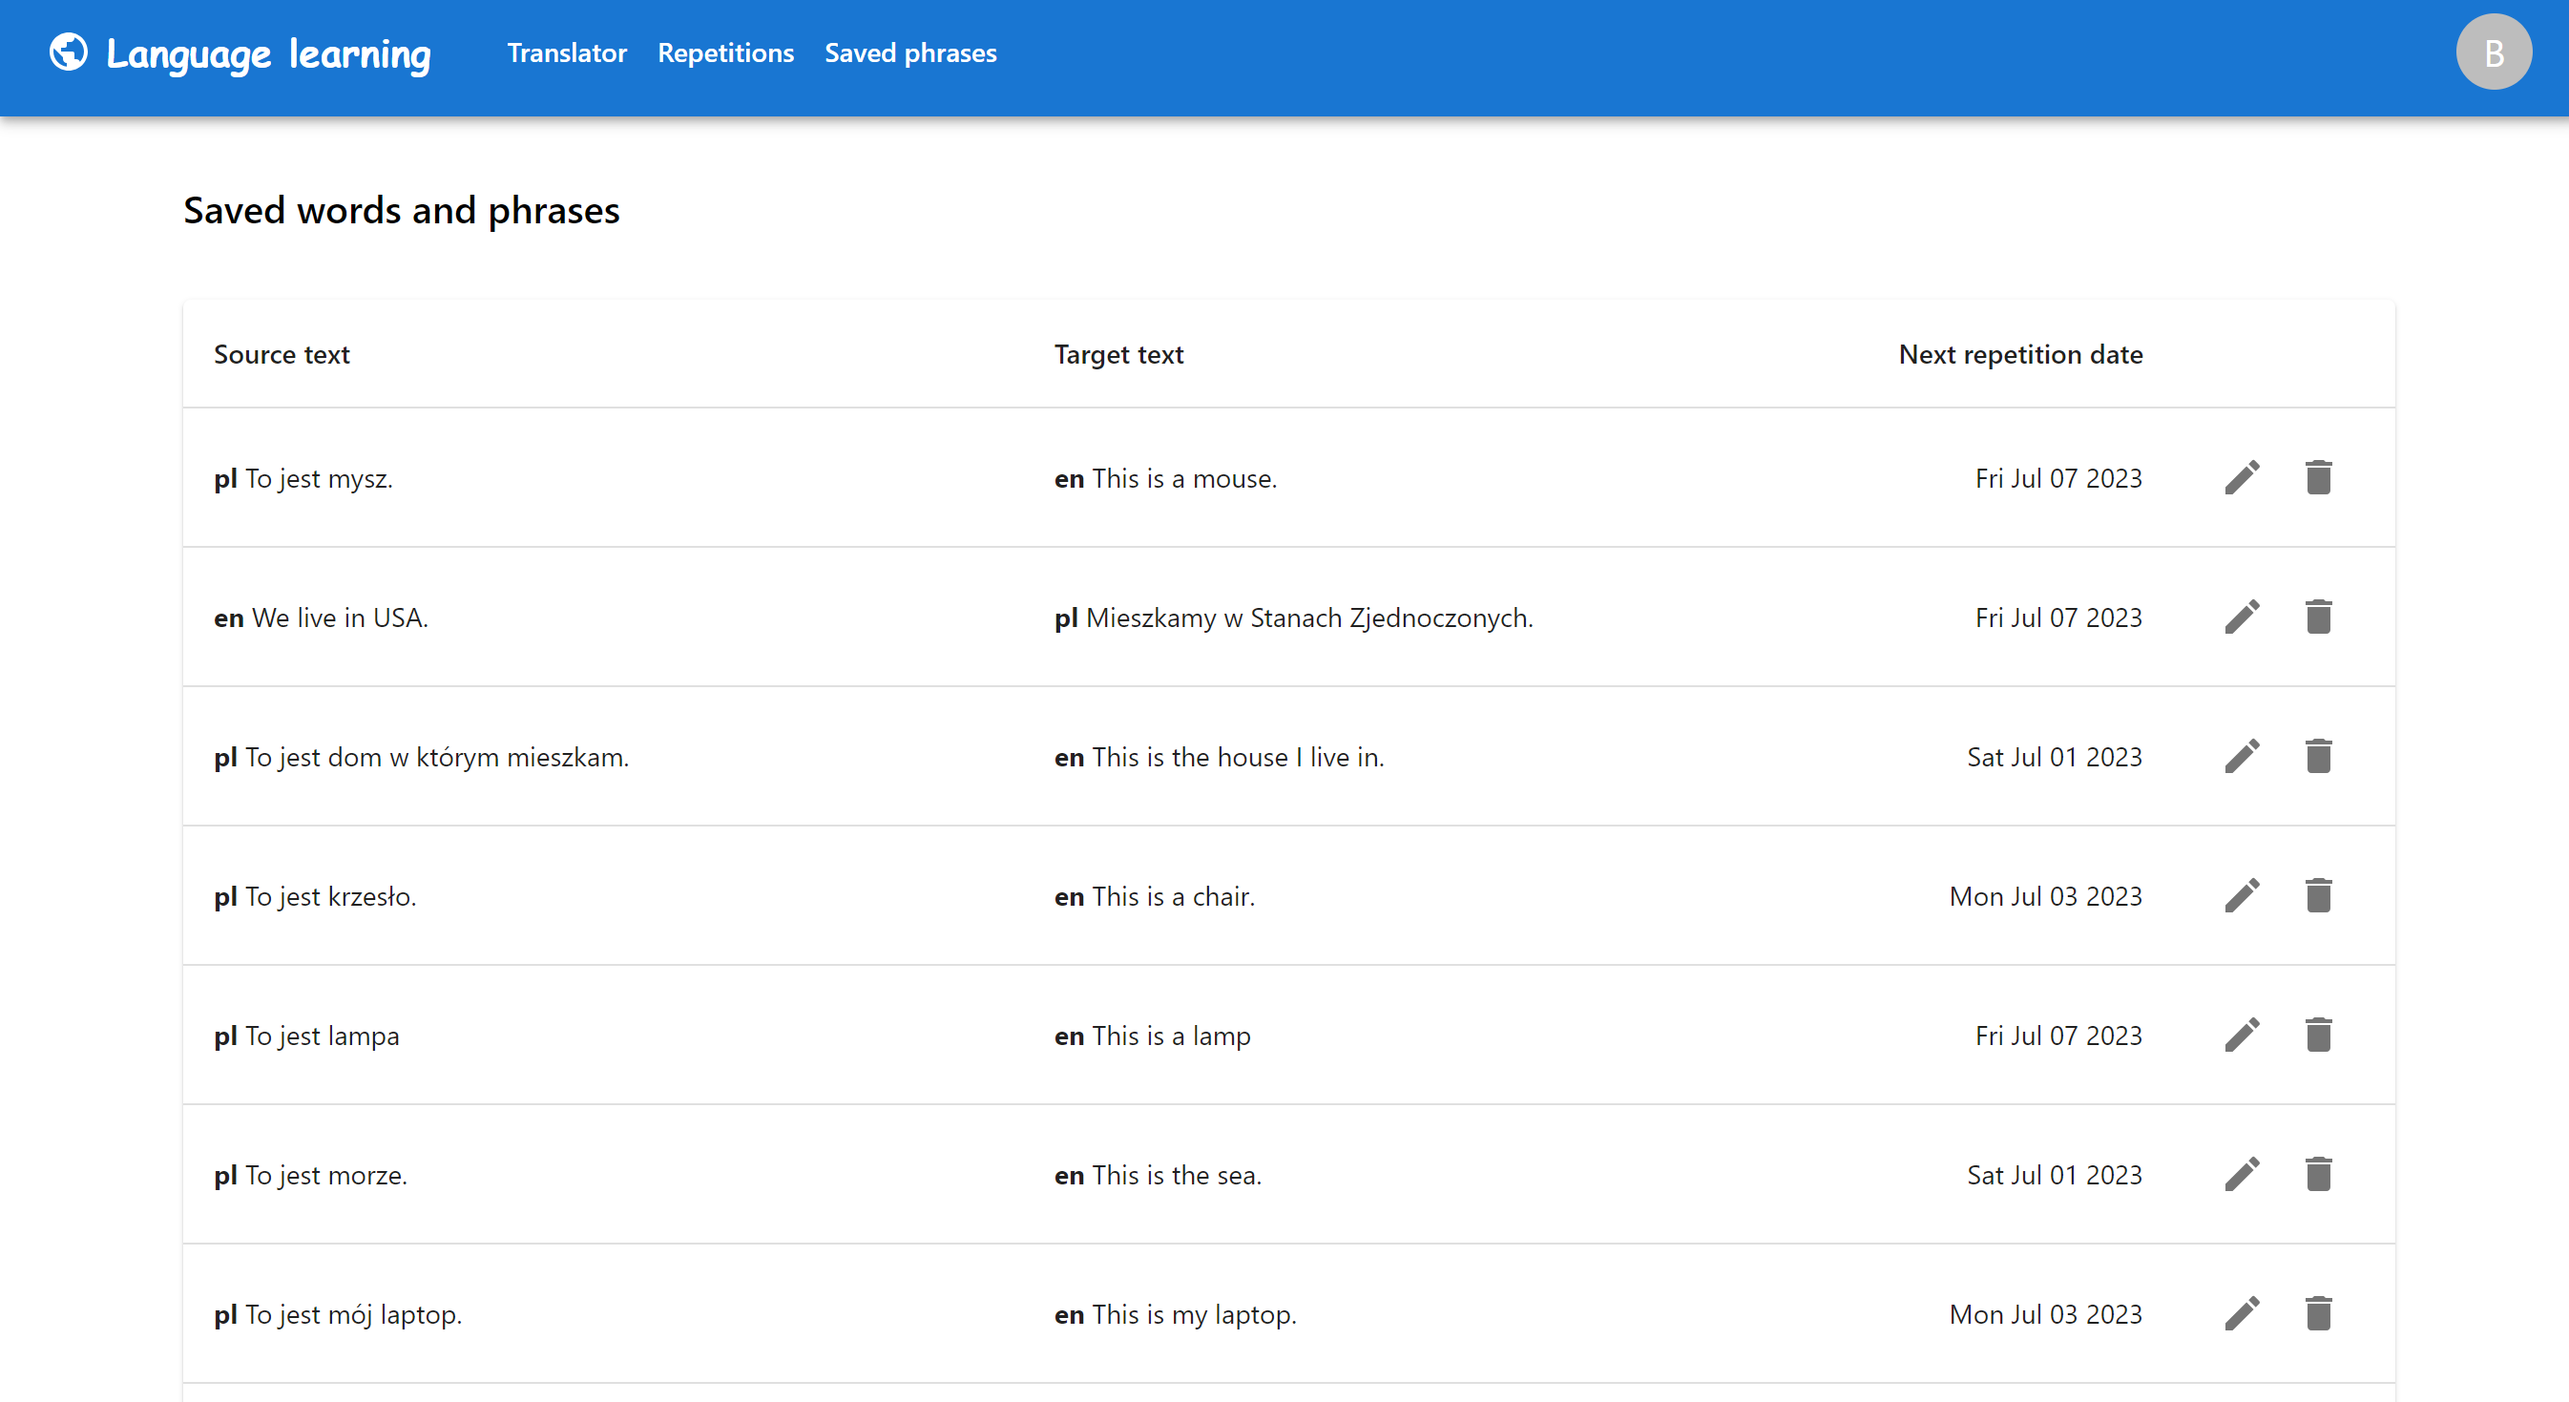
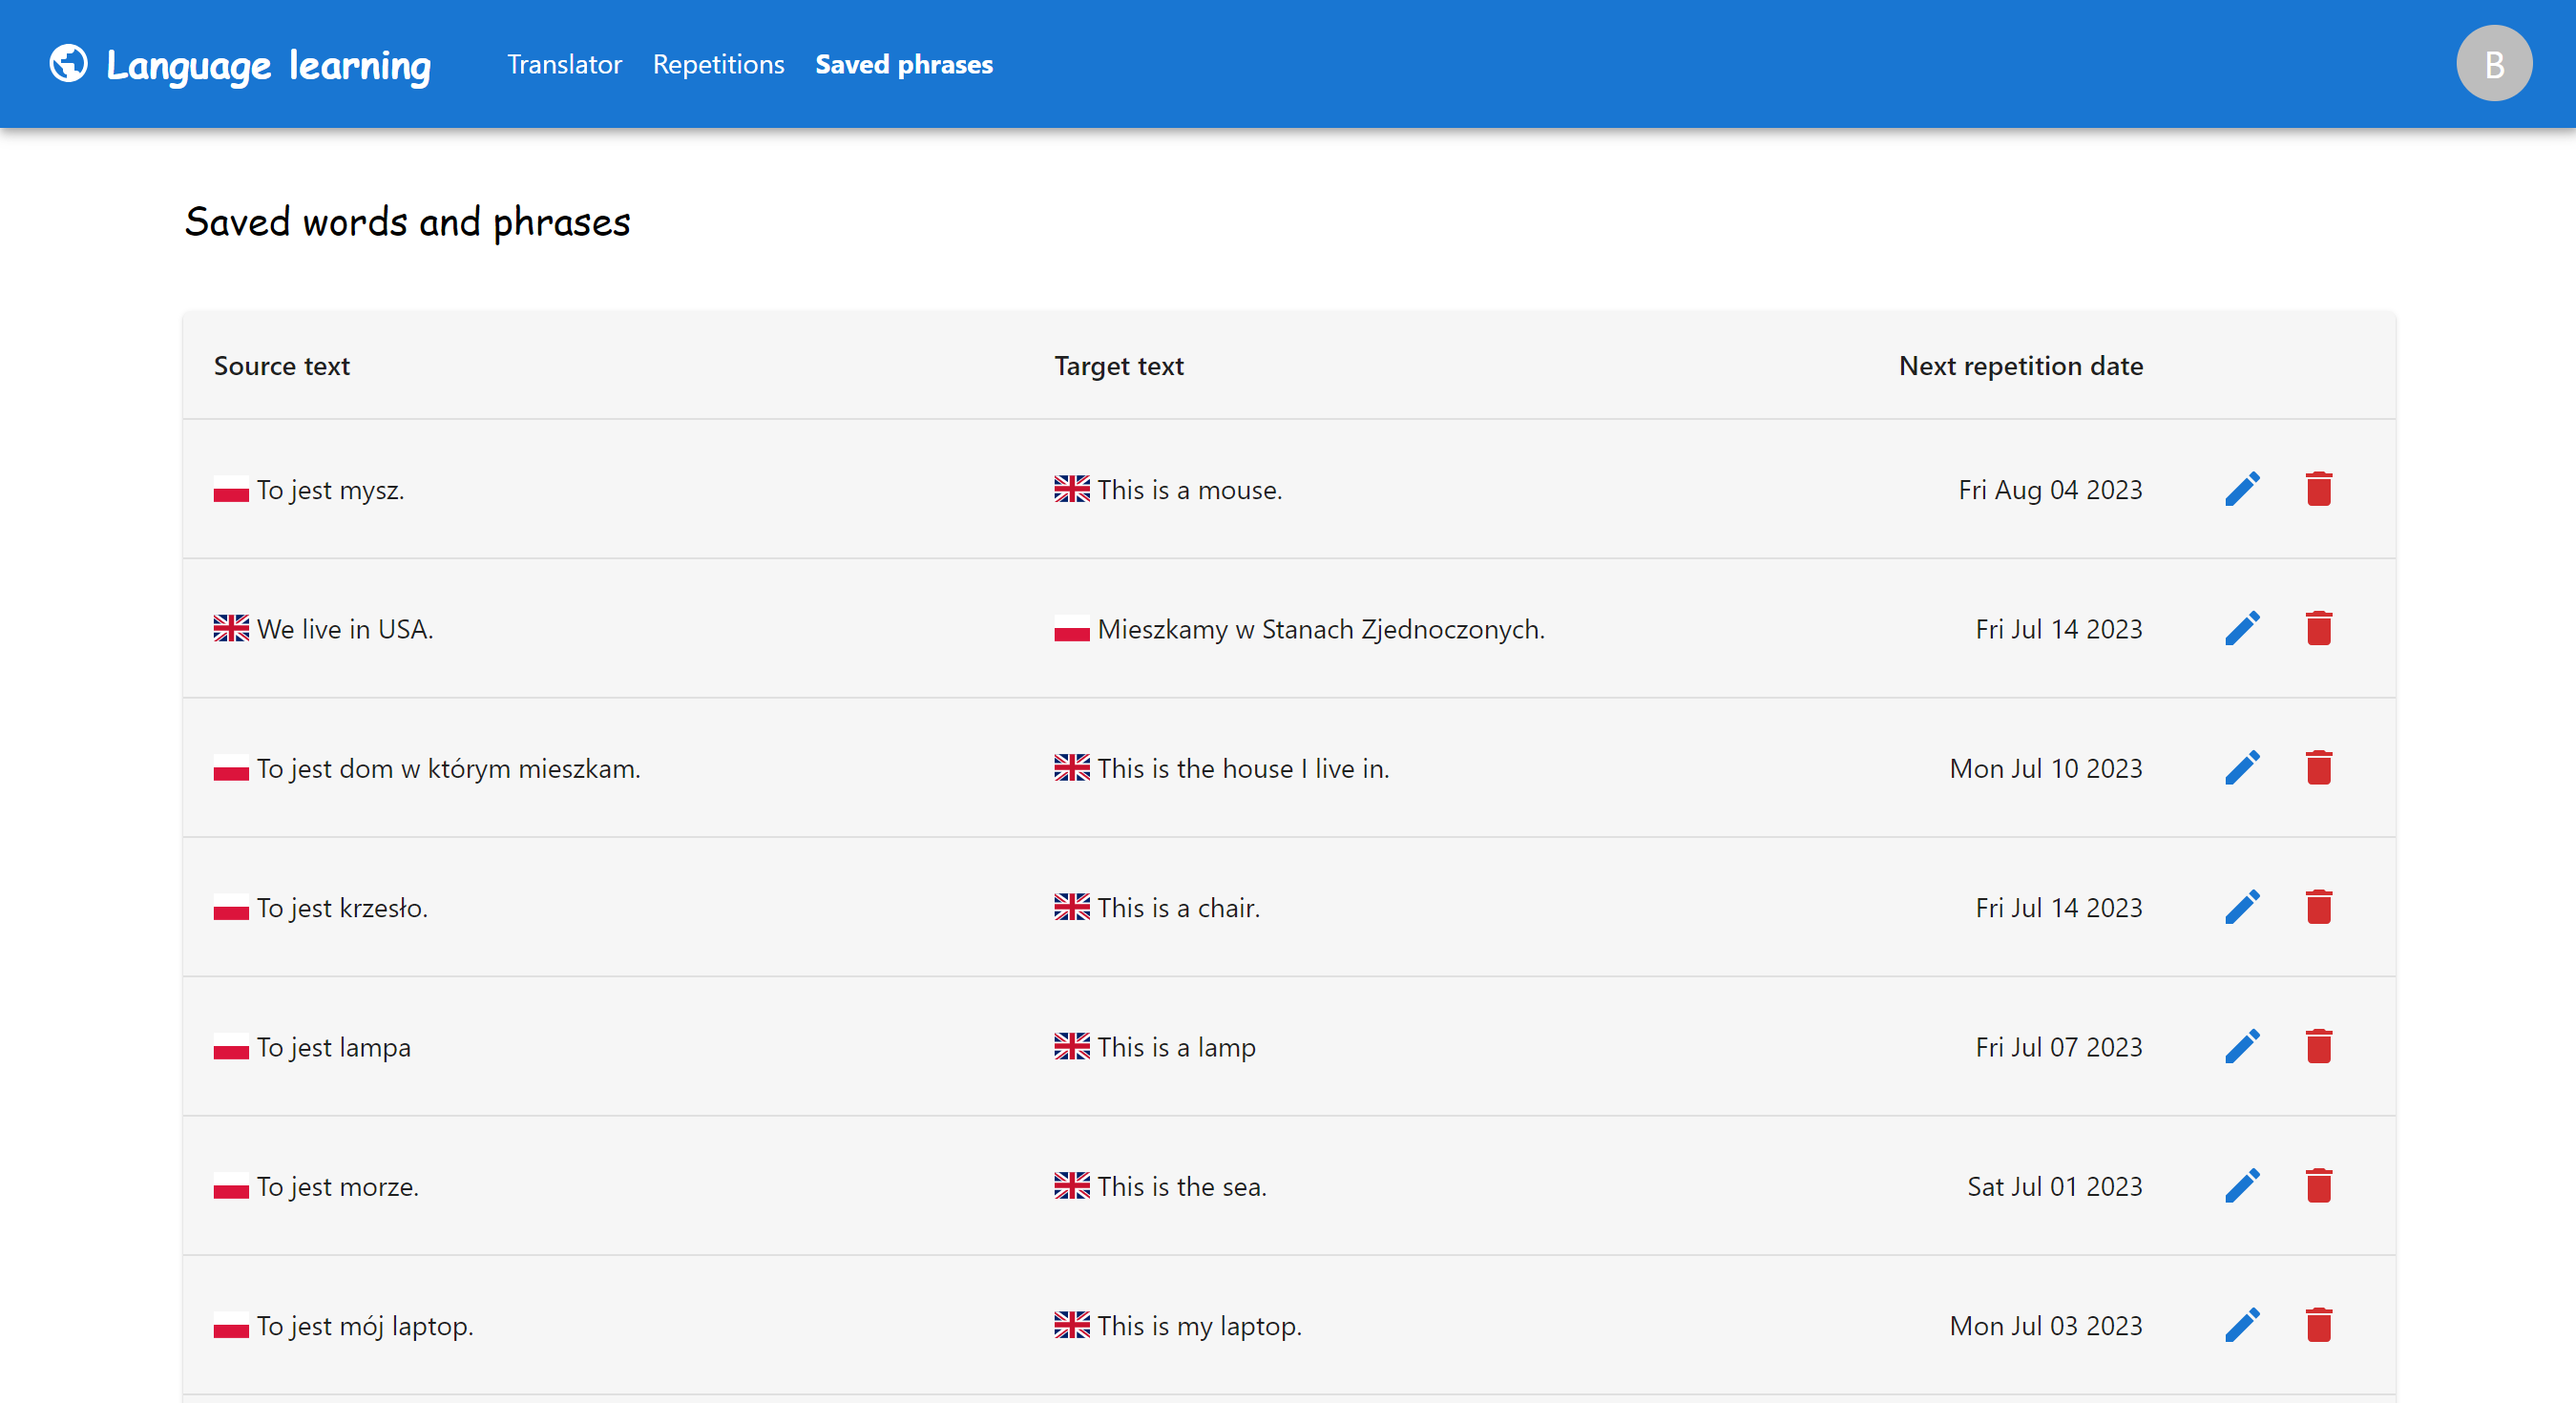
[WEB] Improve look of saved phrases table (#47)

diff --git a/web/src/pages/Phrases/PhrasesTable.tsx b/web/src/pages/Phrases/PhrasesTable.tsx
@@ -17,6 +17,15 @@ export const PhrasesTable = ({ repetitions }: Props): JSX.Element => {
   const [selectedToDeletionRepetitionId, setSelectedToDeletionRepetitionId] = useState<string | null>(null);
   const [selectedToEditionRepetition, setSelectedToEditionRepetition] = useState<Repetition | null>(null);
 
+  const getProperCountryInISO3166 = (country: string): string => {
+    switch (country) {
+      case 'en':
+        return 'gb';
+      default:
+        return country;
+    }
+  };
+
   return (
     <>
       {selectedToEditionRepetition && (
@@ -33,7 +42,7 @@ export const PhrasesTable = ({ repetitions }: Props): JSX.Element => {
           repetitionId={selectedToDeletionRepetitionId!}
         />
       )}
-      <TableContainer component={Paper}>
+      <TableContainer component={Paper} style={{ backgroundColor: '#f6f6f6' }}>
         <Table sx={{ minWidth: 650 }} aria-label="phrases table">
           <TableHead>
             <TableRow>
@@ -52,15 +61,18 @@ export const PhrasesTable = ({ repetitions }: Props): JSX.Element => {
                 sx={{ '&:last-child td, &:last-child th': { border: 0 } }}
               >
                 <TableCell component="th" scope="row">
-                  <b>{repetition.sourceLanguage}</b> {repetition.sourceLanguageText}
+                  <span className={`fi fi-${getProperCountryInISO3166(repetition.sourceLanguage)}`}></span>{' '}
+                  {repetition.sourceLanguageText}
                 </TableCell>
                 <TableCell>
-                  <b>{repetition.targetLanguage}</b> {repetition.targetLanguageText}
+                  <span className={`fi fi-${getProperCountryInISO3166(repetition.targetLanguage)}`}></span>{' '}
+                  {repetition.targetLanguageText}
                 </TableCell>
                 <TableCell align="right">{new Date(repetition.nextRepetitionDate).toDateString()}</TableCell>
                 <TableCell>
                   <IconButton
                     aria-label="edit"
+                    color="primary"
                     onClick={e => {
                       e.preventDefault();
                       setSelectedToEditionRepetition(repetition);
@@ -70,6 +82,7 @@ export const PhrasesTable = ({ repetitions }: Props): JSX.Element => {
                   </IconButton>
                   <IconButton
                     aria-label="delete"
+                    color="error"
                     onClick={e => {
                       e.preventDefault();
                       setSelectedToDeletionRepetitionId(repetition.id);

diff --git a/web/src/pages/Translator/index.tsx b/web/src/pages/Translator/index.tsx
@@ -3,14 +3,14 @@ import { useTranslation } from 'react-i18next';
 import { Helmet } from 'react-helmet-async';
 import { useMutation, useQuery, useQueryClient } from '@tanstack/react-query';
 import Grid from '@mui/material/Unstable_Grid2';
-import { Button, type SelectChangeEvent, TextField, Typography, Stack } from '@mui/material';
+import { Button, type SelectChangeEvent, TextField, Stack } from '@mui/material';
 import SyncAltIcon from '@mui/icons-material/SyncAlt';
 import TranslateIcon from '@mui/icons-material/Translate';
 import AddIcon from '@mui/icons-material/Add';
 import { toast } from 'react-toastify';
 
 import { Select } from '../../components/Select';
-import { ReverseLanguagesButton, TranslateButtonContainer, TranslatorPageWrapper } from './styled';
+import { Heading, ReverseLanguagesButton, TranslateButtonContainer, TranslatorPageWrapper } from './styled';
 import Api from '../../api/api';
 
 export const Translator = (): JSX.Element => {
@@ -89,9 +89,9 @@ export const Translator = (): JSX.Element => {
       </Helmet>
       <TranslatorPageWrapper>
         <Stack direction="row" justifyContent="space-between" alignItems="center" spacing={2}>
-          <Typography variant="h6" gutterBottom>
+          <Heading variant="h6" gutterBottom>
             {t('translator')}
-          </Typography>
+          </Heading>
           <Button
             variant="text"
             startIcon={<AddIcon />}

diff --git a/web/src/pages/Phrases/index.tsx b/web/src/pages/Phrases/index.tsx
@@ -2,12 +2,12 @@ import React from 'react';
 import { useTranslation } from 'react-i18next';
 import { useQuery } from '@tanstack/react-query';
 import { Helmet } from 'react-helmet-async';
-import { CircularProgress, Typography } from '@mui/material';
+import { CircularProgress } from '@mui/material';
 
 import { PageWrapper } from '../../components/PageWrapper/styled';
 import Api from '../../api/api';
 import { PhrasesTable } from './PhrasesTable';
-import { CircularProgressContainer } from './styled';
+import { CircularProgressContainer, Heading } from './styled';
 
 export const Phrases = (): JSX.Element => {
   const { t } = useTranslation('translation', { keyPrefix: 'pages.phrases' });
@@ -25,9 +25,9 @@ export const Phrases = (): JSX.Element => {
 
   const getLoadedPage = (): JSX.Element => (
     <>
-      <Typography variant="h6" style={{ marginBottom: '2rem' }} gutterBottom>
+      <Heading variant="h6" gutterBottom>
         {t('savedPhrases')}
-      </Typography>
+      </Heading>
       <PhrasesTable repetitions={getRepetitionsQuery.data} />
     </>
   );

diff --git a/web/src/pages/Translator/styled.ts b/web/src/pages/Translator/styled.ts
@@ -1,5 +1,6 @@
 import styled from 'styled-components';
-import { IconButton } from '@mui/material';
+import IconButton from '@mui/material/IconButton';
+import Typography from '@mui/material/Typography';
 
 import { PageWrapper } from '../../components/PageWrapper/styled';
 
@@ -37,5 +38,11 @@ export const TranslateButtonContainer = styled.div`
 
   button {
     width: 10rem;
+  }
+`;
+
+export const Heading = styled(Typography)`
+  && {
+    font-family: cursive;
   }
 `;

diff --git a/web/src/pages/Phrases/styled.ts b/web/src/pages/Phrases/styled.ts
@@ -1,3 +1,4 @@
+import Typography from '@mui/material/Typography';
 import styled from 'styled-components';
 
 export const CircularProgressContainer = styled.div`
@@ -5,4 +6,11 @@ export const CircularProgressContainer = styled.div`
   flex-direction: column;
   justify-content: center;
   align-items: center;
+`;
+
+export const Heading = styled(Typography)`
+  && {
+    font-family: cursive;
+    margin-bottom: 2rem;
+  }
 `;

diff --git a/web/public/index.html b/web/public/index.html
@@ -28,6 +28,10 @@
             rel="stylesheet"
             href="https://fonts.googleapis.com/css?family=Roboto:300,400,500,700&display=swap"
     />
+    <link
+            rel="stylesheet"
+            href="https://cdn.jsdelivr.net/gh/lipis/flag-icons@6.6.6/css/flag-icons.min.css"
+    />
     <title>React App</title>
 </head>
 <body>
